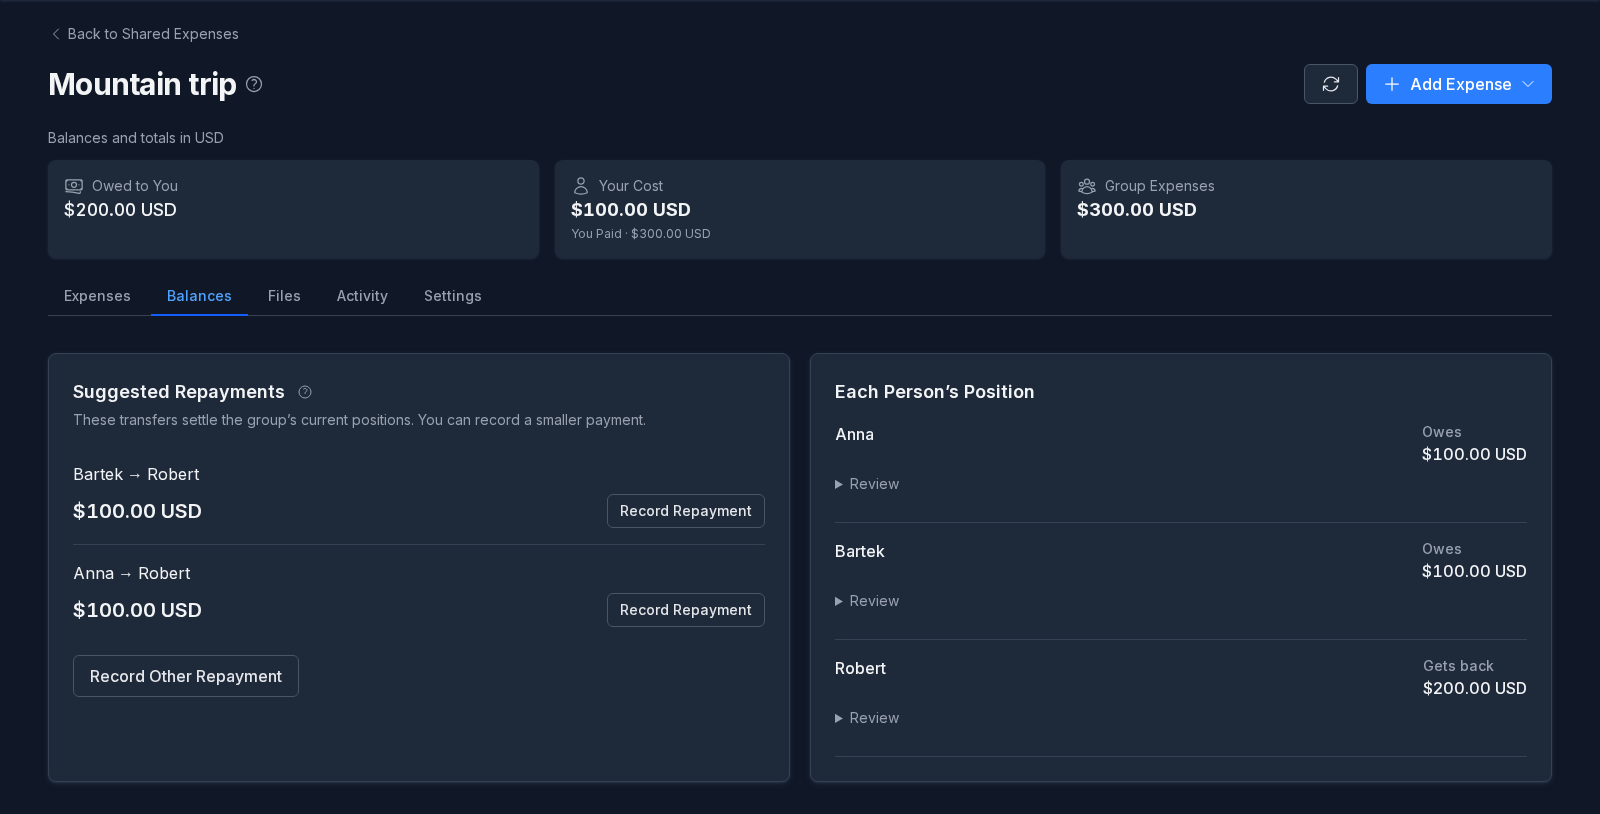
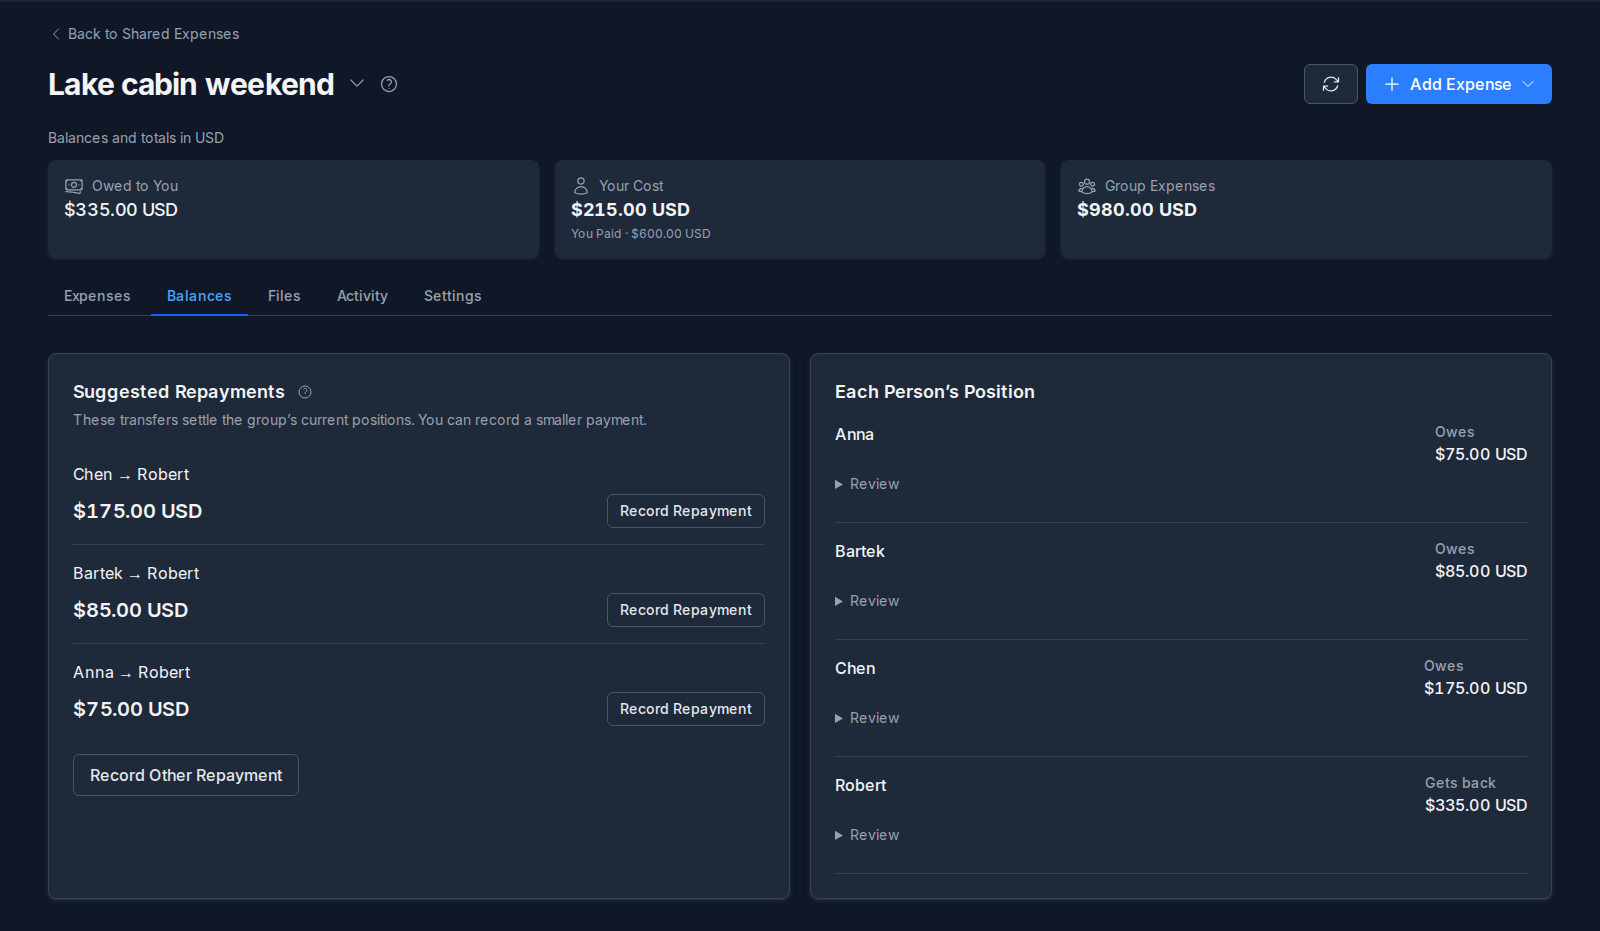
docs(shared-expenses): capture the documentation screenshots in both themes

diff --git a/website/docs/shared-expenses.html b/website/docs/shared-expenses.html
@@ -4,7 +4,7 @@
 <p>Shared entries stay <strong>separate from your personal accounts</strong>. Adding an expense or recording a repayment here does not move money between bank accounts, and nothing in a group appears in your balances, budgets or reports.</p>
 <h2 id="where-it-lives">Where It Lives<a class="hlink" href="#where-it-lives" aria-label="Link to this section">#</a></h2>
 <p><strong>Shared Expenses</strong> is in the <strong>Tools</strong> menu on a computer, and in the navigation menu on a phone. It belongs to your own profile: a delegate viewing your data does not see it, and you switch back to your own profile to open your groups.</p>
-<span class="shot-missing" role="img" aria-label="The Shared Expenses page: what you are owed and what you owe across your groups, above the list of groups">Screenshot pending: The Shared Expenses page: what you are owed and what you owe across your groups, above the list of groups</span>
+<figure><img src="/docs/images/shared-expenses-overview.png" alt="The Shared Expenses page: what you are owed and what you owe across your groups, above the list of groups" width="1600" height="1000" loading="lazy" decoding="async" class="shot-dark"/><img src="/docs/images/shared-expenses-overview.light.png" alt="The Shared Expenses page: what you are owed and what you owe across your groups, above the list of groups" width="1600" height="1000" loading="lazy" decoding="async" class="shot-light"/><figcaption>The Shared Expenses page: what you are owed and what you owe across your groups, above the list of groups</figcaption></figure>
 <p>The page has two tabs:</p>
 <ul>
 <li><strong>Groups</strong> lists your groups with your position in each. Above the list, <strong>Owed to You</strong> and <strong>You Owe</strong> add up your positions across every group, per currency. Switch between <strong>Active</strong> and <strong>Archived</strong> groups, or use <strong>Search groups</strong>.</li>
@@ -13,7 +13,7 @@
 <p>Click a group to open it.</p>
 <h2 id="creating-a-group">Creating a Group<a class="hlink" href="#creating-a-group" aria-label="Link to this section">#</a></h2>
 <p>Choose <strong>New Group</strong>.</p>
-<span class="shot-missing" role="img" aria-label="The New Group form with the group name, your name, the settlement currency and the people taking part">Screenshot pending: The New Group form with the group name, your name, the settlement currency and the people taking part</span>
+<figure><img src="/docs/images/shared-expenses-new-group.png" alt="The New Group form with the group name, your name, the settlement currency and the people taking part" width="512" height="598" loading="lazy" decoding="async" class="shot-dark"/><img src="/docs/images/shared-expenses-new-group.light.png" alt="The New Group form with the group name, your name, the settlement currency and the people taking part" width="512" height="598" loading="lazy" decoding="async" class="shot-light"/><figcaption>The New Group form with the group name, your name, the settlement currency and the people taking part</figcaption></figure>
 <ul>
 <li><strong>Group Name</strong>, for example &quot;Ski trip&quot; or &quot;Apartment bills&quot;.</li>
 <li><strong>Your Name</strong> is how you appear to the others in this group.</li>
@@ -22,7 +22,7 @@
 </ul>
 <p>Choose <strong>Create Group</strong>. Keep one group for the whole trip: each purchase can involve a different selection of its people.</p>
 <h2 id="the-group-page">The Group Page<a class="hlink" href="#the-group-page" aria-label="Link to this section">#</a></h2>
-<span class="shot-missing" role="img" aria-label="A cabin weekend&#x27;s expenses: the group totals and your position above the list of purchases and a repayment">Screenshot pending: A cabin weekend&#x27;s expenses: the group totals and your position above the list of purchases and a repayment</span>
+<figure><img src="/docs/images/shared-expenses-group.png" alt="A cabin weekend&#x27;s expenses: the group totals and your position above the list of purchases and a repayment" width="1600" height="1000" loading="lazy" decoding="async" class="shot-dark"/><img src="/docs/images/shared-expenses-group.light.png" alt="A cabin weekend&#x27;s expenses: the group totals and your position above the list of purchases and a repayment" width="1600" height="1000" loading="lazy" decoding="async" class="shot-light"/><figcaption>A cabin weekend&#x27;s expenses: the group totals and your position above the list of purchases and a repayment</figcaption></figure>
 <p>Across the top, <strong>Group Expenses</strong> is what the group spent, <strong>Your Cost</strong> is your share of it and <strong>You Paid</strong> is what you paid, all in the settlement currency. Your position, what you are owed or owe once repayments are counted, is on the <a href="#balances-and-repayments">Balances</a> tab and in the group list. The switcher beside the group&#x27;s name jumps to another group.</p>
 <p>The tabs below are:</p>
 <div class="table-wrap"><table><thead><tr><th>Tab</th><th>What it holds</th></tr></thead><tbody><tr><td><strong>Expenses</strong></td><td>Every entry, with search and filters</td></tr><tr><td><strong>Balances</strong></td><td>Each person&#x27;s position and the suggested repayments</td></tr><tr><td><strong>Files</strong></td><td>Receipts, tickets and photos for the group</td></tr><tr><td><strong>Activity</strong></td><td>Who changed what, and when</td></tr><tr><td><strong>Settings</strong></td><td>People, access, invitations and the group itself</td></tr></tbody></table></div>
@@ -41,7 +41,7 @@
 <p>A person can pay without having a share: a friend who paid for your concert ticket is owed the whole amount.</p>
 <p>Choose <strong>Add Expense</strong>, then <strong>Income</strong>, for money the group received rather than spent, such as a deposit returned to the group or winnings shared between you. It works the same way: <strong>Received By</strong> replaces <strong>Paid By</strong>, and the split says who it belongs to.</p>
 <h3 id="changing-the-split">Changing the Split<a class="hlink" href="#changing-the-split" aria-label="Link to this section">#</a></h3>
-<span class="shot-missing" role="img" aria-label="The Split Between dialog: Chen is switched off and the dinner is split equally between the other three">Screenshot pending: The Split Between dialog: Chen is switched off and the dinner is split equally between the other three</span>
+<figure><img src="/docs/images/shared-expenses-split.png" alt="The Split Between dialog: Chen is switched off and the dinner is split equally between the other three" width="672" height="860" loading="lazy" decoding="async" class="shot-dark"/><img src="/docs/images/shared-expenses-split.light.png" alt="The Split Between dialog: Chen is switched off and the dinner is split equally between the other three" width="672" height="860" loading="lazy" decoding="async" class="shot-light"/><figcaption>The Split Between dialog: Chen is switched off and the dinner is split equally between the other three</figcaption></figure>
 <p>Each person has a switch. Turn someone off when they did not take part; they are left out of this expense only. For the people left in:</p>
 <ul>
 <li>Leave every amount blank to split <strong>equally</strong>.</li>
@@ -55,7 +55,7 @@
 <p>An expense dated in the future is <strong>Planned</strong>: it is listed, but does not affect balances until its date. Open it on that day to record it.</p>
 <h2 id="editing-refunds-and-cancelling">Editing, Refunds and Cancelling<a class="hlink" href="#editing-refunds-and-cancelling" aria-label="Link to this section">#</a></h2>
 <p>Click an entry to open it.</p>
-<span class="shot-missing" role="img" aria-label="An expense opened from the list: the amount, who paid, each person&#x27;s share, and the Edit, Record Refund and Cancel Entry actions">Screenshot pending: An expense opened from the list: the amount, who paid, each person&#x27;s share, and the Edit, Record Refund and Cancel Entry actions</span>
+<figure><img src="/docs/images/shared-expenses-entry.png" alt="An expense opened from the list: the amount, who paid, each person&#x27;s share, and the Edit, Record Refund and Cancel Entry actions" width="672" height="672" loading="lazy" decoding="async" class="shot-dark"/><img src="/docs/images/shared-expenses-entry.light.png" alt="An expense opened from the list: the amount, who paid, each person&#x27;s share, and the Edit, Record Refund and Cancel Entry actions" width="672" height="672" loading="lazy" decoding="async" class="shot-light"/><figcaption>An expense opened from the list: the amount, who paid, each person&#x27;s share, and the Edit, Record Refund and Cancel Entry actions</figcaption></figure>
 <ul>
 <li><strong>Edit</strong> changes any part of it. Balances follow the change, and the entry&#x27;s earlier version stays in its history.</li>
 <li><strong>Record Refund</strong> records money returned for an expense, such as a cancelled booking. The refund follows the original split, takes earlier refunds into account, and uses the original expense&#x27;s exchange rate.</li>
@@ -64,12 +64,12 @@
 <p>Entries are never deleted, so everyone in the group can see what changed.</p>
 <h2 id="balances-and-repayments">Balances and Repayments<a class="hlink" href="#balances-and-repayments" aria-label="Link to this section">#</a></h2>
 <p>The <strong>Balances</strong> tab shows where everyone stands.</p>
-<figure><img src="/docs/images/shared-expenses-balances.png" alt="The Balances tab of the cabin weekend: three suggested repayments to Robert, and each person&#x27;s position" width="1600" height="814" loading="lazy" decoding="async" class="shot-dark"/><img src="/docs/images/shared-expenses-balances.light.png" alt="The Balances tab of the cabin weekend: three suggested repayments to Robert, and each person&#x27;s position" width="1600" height="814" loading="lazy" decoding="async" class="shot-light"/><figcaption>The Balances tab of the cabin weekend: three suggested repayments to Robert, and each person&#x27;s position</figcaption></figure>
+<figure><img src="/docs/images/shared-expenses-balances.png" alt="The Balances tab of the cabin weekend: three suggested repayments to Robert, and each person&#x27;s position" width="1600" height="931" loading="lazy" decoding="async" class="shot-dark"/><img src="/docs/images/shared-expenses-balances.light.png" alt="The Balances tab of the cabin weekend: three suggested repayments to Robert, and each person&#x27;s position" width="1600" height="931" loading="lazy" decoding="async" class="shot-light"/><figcaption>The Balances tab of the cabin weekend: three suggested repayments to Robert, and each person&#x27;s position</figcaption></figure>
 <p><strong>Each Person&#x27;s Position</strong> is what each person is owed (positive) or owes (negative). <strong>Review</strong> under a name breaks it down into what they paid, their share, their income share, and the repayments they sent and received.</p>
 <p><strong>Suggested Repayments</strong> are the fewest transfers that would settle everyone. They use each person&#x27;s net position across all purchases, so you may be asked to repay someone who did not pay for your particular expense; that is still correct. Settling once at the end of a trip is usually simpler than repaying after every purchase.</p>
 <h3 id="recording-a-repayment">Recording a Repayment<a class="hlink" href="#recording-a-repayment" aria-label="Link to this section">#</a></h3>
 <p>Monize does not send money. After the money has changed hands, choose <strong>Record Repayment</strong> beside the suggestion, or <strong>Record Other Repayment</strong> for any other payment between two people.</p>
-<span class="shot-missing" role="img" aria-label="The Record Repayment form, filled in from a suggestion: the amount, who paid and who received it">Screenshot pending: The Record Repayment form, filled in from a suggestion: the amount, who paid and who received it</span>
+<figure><img src="/docs/images/shared-expenses-repayment.png" alt="The Record Repayment form, filled in from a suggestion: the amount, who paid and who received it" width="672" height="878" loading="lazy" decoding="async" class="shot-dark"/><img src="/docs/images/shared-expenses-repayment.light.png" alt="The Record Repayment form, filled in from a suggestion: the amount, who paid and who received it" width="672" height="878" loading="lazy" decoding="async" class="shot-light"/><figcaption>The Record Repayment form, filled in from a suggestion: the amount, who paid and who received it</figcaption></figure>
 <p><strong>From</strong>, <strong>To</strong> and <strong>Amount</strong> are filled in from the suggestion; change the amount for a partial repayment. A repayment larger than the current suggestion is refused unless you turn on <strong>I understand this payment may exceed the current suggestion</strong>, which protects you from recording the same payment twice.</p>
 <h3 id="reminders">Reminders<a class="hlink" href="#reminders" aria-label="Link to this section">#</a></h3>
 <p>When someone who has joined the group with their own Monize account owes money, <strong>Remind</strong> under their suggestion, then <strong>Send Reminder</strong>, sends them a notification that opens the group&#x27;s balances. You can remind the same person once every 24 hours, and the reminder respects their notification settings and whether they have muted the group.</p>
@@ -90,9 +90,9 @@
 <p><strong>Activity</strong> lists every change to the group: entries added, changed or cancelled, people added, invitations, access changes and documents, each with who made it and when.</p>
 <h2 id="inviting-people">Inviting People<a class="hlink" href="#inviting-people" aria-label="Link to this section">#</a></h2>
 <p>Anyone in a group can stay a name only. To let a person see the group and add expenses themselves, invite them from <strong>Settings</strong>. They need a Monize account on the same server.</p>
-<span class="shot-missing" role="img" aria-label="The Settings tab: the people in the group with their access, linking to your own people, and the group&#x27;s options">Screenshot pending: The Settings tab: the people in the group with their access, linking to your own people, and the group&#x27;s options</span>
+<figure><img src="/docs/images/shared-expenses-settings.png" alt="The Settings tab: the people in the group with their access, linking to your own people, and the group&#x27;s options" width="1600" height="1863" loading="lazy" decoding="async" class="shot-dark"/><img src="/docs/images/shared-expenses-settings.light.png" alt="The Settings tab: the people in the group with their access, linking to your own people, and the group&#x27;s options" width="1600" height="1863" loading="lazy" decoding="async" class="shot-light"/><figcaption>The Settings tab: the people in the group with their access, linking to your own people, and the group&#x27;s options</figcaption></figure>
 <p>Choose <strong>Invite</strong> beside the person.</p>
-<span class="shot-missing" role="img" aria-label="The Invite dialog for Chen, with an optional email restriction">Screenshot pending: The Invite dialog for Chen, with an optional email restriction</span>
+<figure><img src="/docs/images/shared-expenses-invite.png" alt="The Invite dialog for Chen, with an optional email restriction" width="512" height="452" loading="lazy" decoding="async" class="shot-dark"/><img src="/docs/images/shared-expenses-invite.light.png" alt="The Invite dialog for Chen, with an optional email restriction" width="512" height="452" loading="lazy" decoding="async" class="shot-light"/><figcaption>The Invite dialog for Chen, with an optional email restriction</figcaption></figure>
 <ol>
 <li>Optionally enter <strong>Restrict to email (optional)</strong> so that only that account can use the link.</li>
 <li>Choose <strong>Create Invitation</strong>, then <strong>Copy Link</strong> and send it to them however you like. Monize does not email it.</li>
